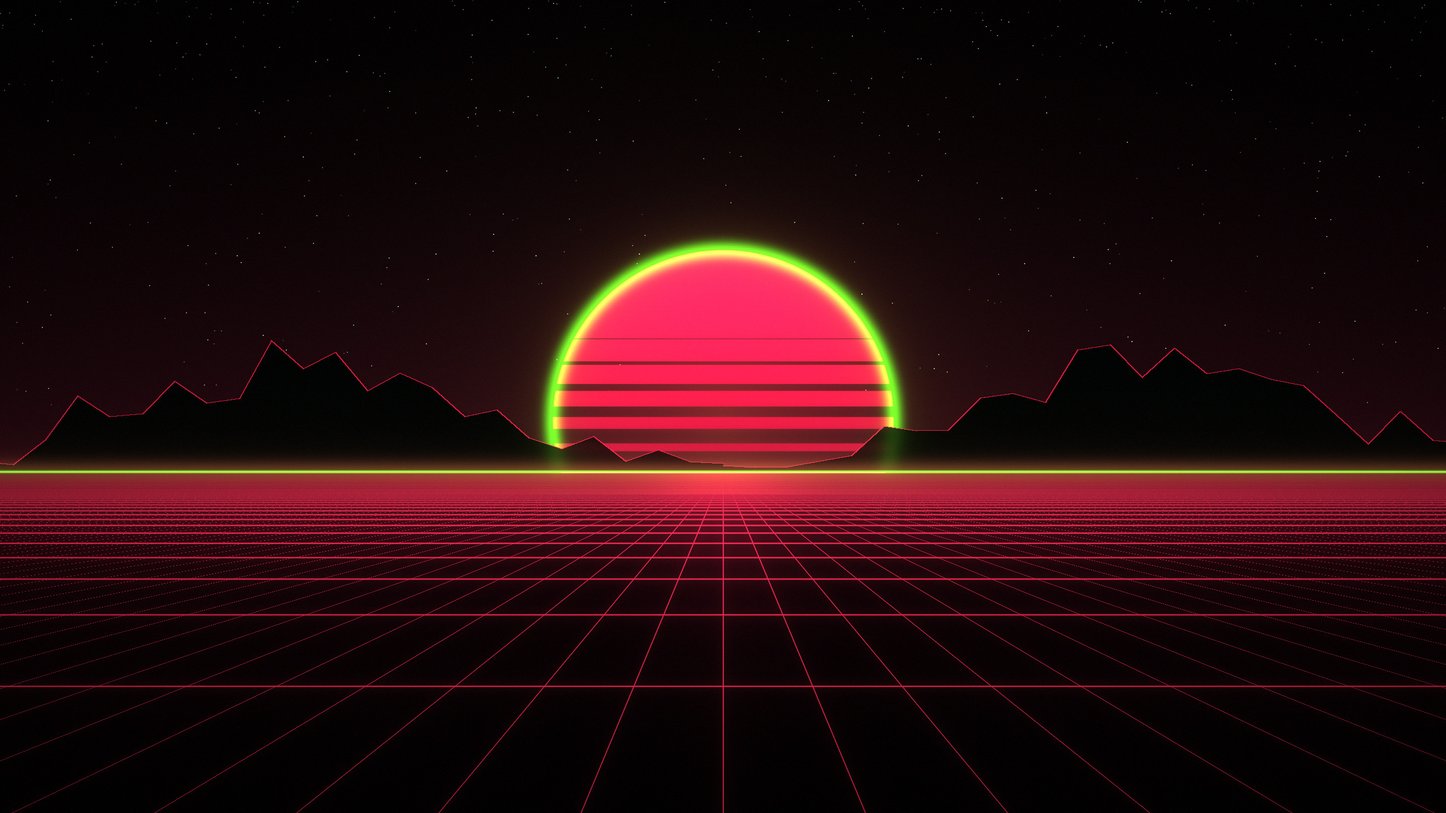
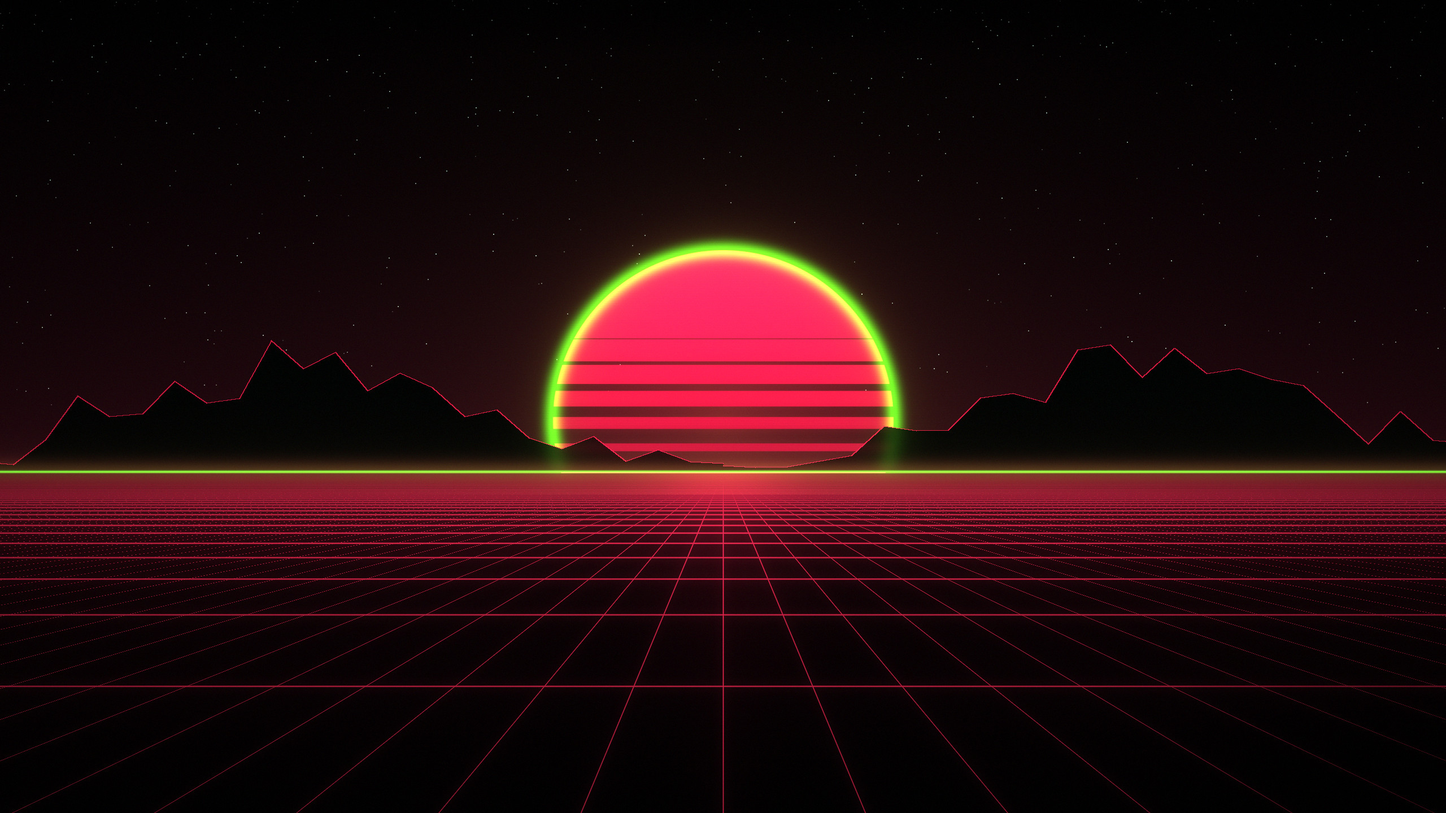
Shader CRT (SUPER+S), fondos con zonas tranquilas y correcciones de la revision de Codex
- Shaders hyprarch-crt.frag y hyprarch-lite.frag + toggle-shader.sh (apagado por defecto)
- Fondos nuevos con zonas tranquilas (barra y rincon de Claudito)
- Umbrales de Waybar alineados con SYS (RAM, bateria, temperatura)
- Red: estados "sin IP" y desactivada con color propio
- Tema personalizado: OK/ALERT fijos (verde/carmesi) para no invertir la semantica

Changed region(s): [[0.0, 0.5625, 1.0, 0.6875]]

diff --git a/airootfs/etc/skel/.config/waybar/style.css b/airootfs/etc/skel/.config/waybar/style.css
@@ -152,11 +152,13 @@ window#waybar.empty #window {
 #memory.critical        { color: @alert; font-weight: bold; }
 
 #temperature            { color: @ok; }
+#temperature.warning    { color: @warn; }
 #temperature.critical   { color: @alert; font-weight: bold; }
 
 #network                { color: @ok; }
-#network.disconnected   { color: @alert; }
-#network.disabled       { color: @alert; }
+#network.linked,
+#network.disconnected   { color: @warn; }
+#network.disabled       { color: @dim; }
 
 #bluetooth              { color: @dim; }
 #bluetooth.on           { color: @ok; }

diff --git a/tools/make_wallpaper.py b/tools/make_wallpaper.py
@@ -107,16 +107,21 @@ def render(accent, accent2, sky_top, sky_horizon, seed):
         np.clip(1.0 - dpx_z / 2.0, 0, 1),
     )
     fade = np.clip((yy - horizon) / (H * 0.07), 0, 1) ** 0.8
-    grid = (line * fade * below)[..., None] * (A * 0.95 + 0.05)
+    grid = (line * fade * below)[..., None] * (A * 0.95 + 0.05) * 0.86
 
     # ---- horizonte: línea fina carmesí + resplandor suave + reflejo del sol
     hline = np.exp(-(((yy - horizon) / 2.2) ** 2))[..., None] * (B * 1.0 + 0.1)
-    hz = np.exp(-(((yy - horizon) / (H * 0.014)) ** 2))[..., None] * (A * 0.5 + B * 0.2) * 0.55
+    hz = np.exp(-(((yy - horizon) / (H * 0.014)) ** 2))[..., None] * (A * 0.5 + B * 0.2) * 0.42
     refl = (np.exp(-(((xx - cx) / (W * 0.05)) ** 2)) * np.exp(-(yy - horizon) / (H * 0.10)) * below)[..., None] * A * 0.22
 
     bright = np.clip(grid * 1.1 + hline * 0.9 + (alpha[..., None] * sun_col) * 0.5 + rim * 0.5, 0, 1)
     bloom = blur(bright, 8) * 0.38 + blur(bright, 30) * 0.42 + blur(bright, 80) * 0.30
     img = img + grid + hline + hz + refl + bloom
+
+    # ---- zonas tranquilas: franja oscura arriba (detrás de la barra) y rincón inferior derecho (detrás de Claudito)
+    top = 1 - 0.55 * (1 - smoothstep(0.0, H * 0.075, yy))[..., None]
+    corner = 1 - 0.42 * np.exp(-(((xx - W * 0.97) / (W * 0.13)) ** 2 + ((yy - H * 0.97) / (H * 0.17)) ** 2))[..., None]
+    img *= top * corner
 
     # ---- líneas de escaneo, viñeta y grano
     img *= (1 - 0.055 * ((yy.astype(np.int32) % 3) == 0))[..., None]
